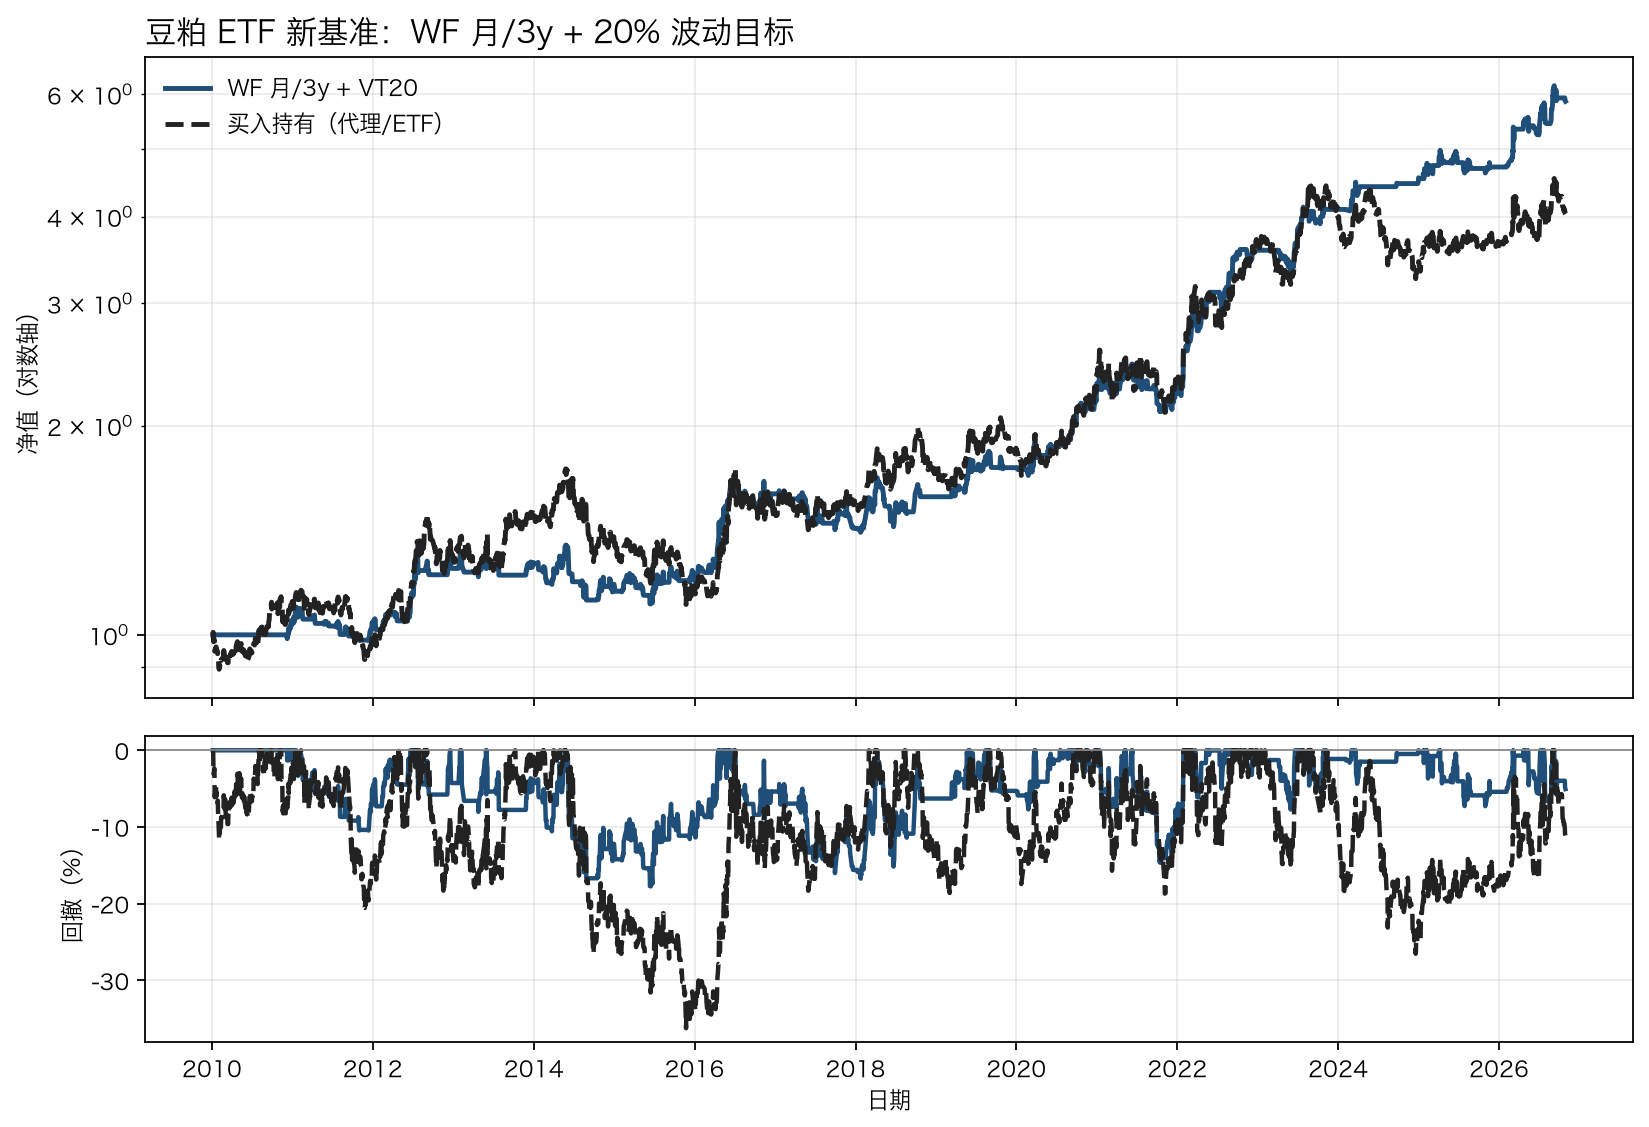
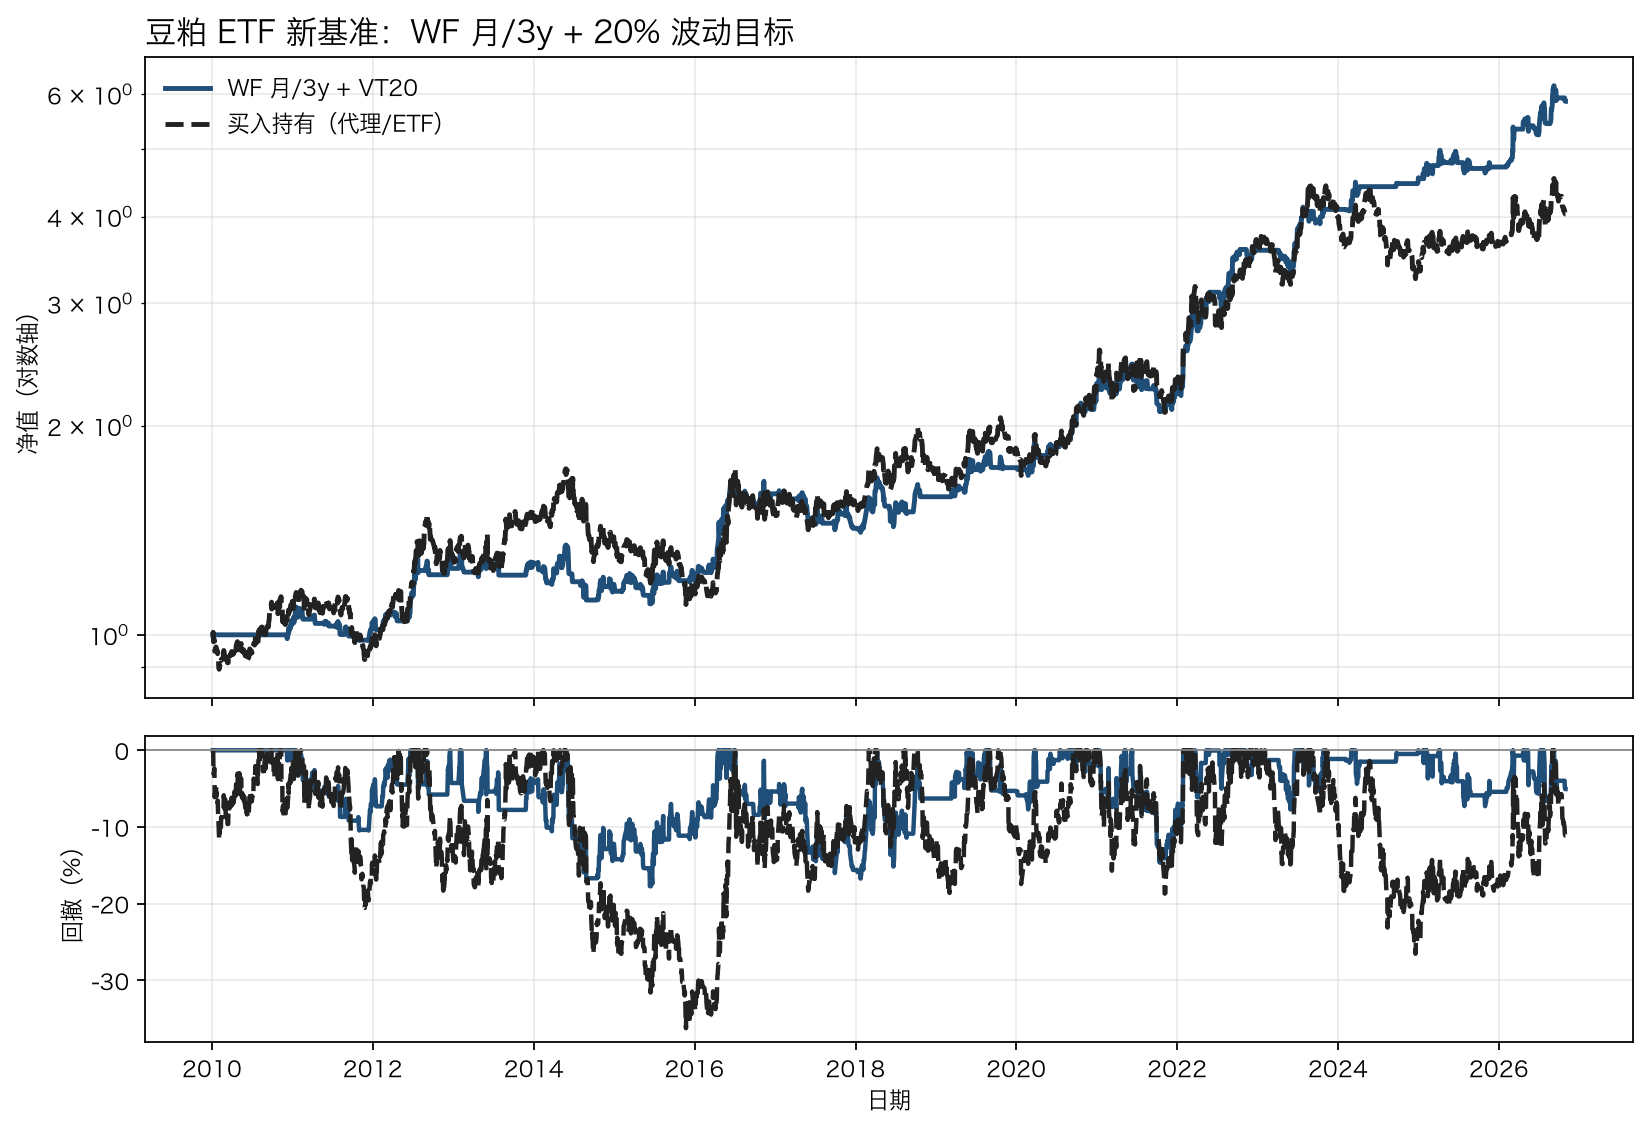
Add final recommendation and selected-param OOS comparison

diff --git a/豆粕/FINAL_RECOMMENDATION.md b/豆粕/FINAL_RECOMMENDATION.md
@@ -1,0 +1,60 @@
+# 最终推荐：WF 月/3y + VT20
+
+## 结论
+
+**研究/纸面首选：`WF 月/3y + 20% 波动目标`。**
+
+规则：每个交易月第一个交易日，只用此前 3 年数据，从 8 套模板中选一套；下一月冻结。ETF 只做多，模板信号 >0 时持有，仓位乘以 `min(1, 20% / 20 日实现波动)`；单边 3bp。代码见 `wf_monthly_vt20.py`。
+
+## 选参 OOS 对比
+
+两者都采用月度、3 年训练窗口。`20% + PV override` 的选参版是在 PV override 上每月选 0/10/20/30% 多头，不是固定 20%。
+
+格式：年化/夏普/卡玛/最大回撤。
+
+| 策略 | 2010 起 | 2016 起 | 2026 起（年化） |
+|---|---:|---:|---:|
+| **WF 月/3y + VT20** | **11.09%/0.918/0.625/−17.7%** | **15.60%/1.189/0.933/−16.7%** | **30.69%/1.679/4.61/−6.7%** |
+| 20% + PV override（选参版） | 11.04%/0.746/0.323/−34.1% | 17.28%/1.129/0.990/−17.5% | 20.51%/1.077/2.48/−8.3% |
+| 20% + PV override（固定 20%，事后参考） | 13.6%/0.88/0.69/−19.8% | 18.7%/1.14/0.94/−19.8% | 32.3%/1.50/3.89/−8.3% |
+
+ETF 实际 2019-12–2026-10：WF + VT20 为 **19.24%/1.444/1.316/−14.6%**。
+
+## 裁决
+
+- 2010 起：WF + VT20 全面胜出；20% + PV override 选参版回撤 −34.1%，不可接受。
+- 2016 起：20% + PV override 年化略高（17.28% 对 15.60%），但夏普和回撤仍是 WF + VT20 更好。
+- 2026 起：WF + VT20 明显更好（30.69% 对 20.51%）。
+- 固定 20% + PV override 的 13.6–32.3% 是事后最优，选参 OOS 只有 11.0–26.0%；不能当实盘预期。
+
+## 预期收益与回撤
+
+不要用 2026 的 30% 外推。
+
+| 情景 | 年化预期 | 回撤预期 | 说明 |
+|---|---:|---:|---|
+| 保守（2010 起） | **10–11%** | **−18%** | 含 2010–2015 弱段，最接近长期 |
+| 基准（2016 起） | **14–16%** | **−17%** | 基本面可得后的完整段 |
+| 近期实际 ETF 2019–2026 | 19.2% | −14.6% | 含 2022 强势，不能直接外推 |
+
+实盘规划建议用 **11–13% 年化、−18% 回撤** 做预算；首年目标不要用 19–30%。
+
+## 执行
+
+- 先纸面/小资金影子 6–12 个月，冻结月度模板选择和 VT20 参数。
+- 仓位按 VT20 计算，不因近期强就手动满仓。
+- 回撤 −15% 降风险预算，−20% 暂停新增；保证金缓冲至少 25%。
+- 2027 开始作为真正前瞻 OOS；当前选参 OOS 的候选集仍是研究后设定的。
+
+## 限制
+
+- 2010/2016 起点使用 ETF 代理（含展期 M0 + 3.27%/年 carry），2019-12 后接 159985。
+- 2025–2026 已反复查看，不是干净 OOS。
+- 20% PV override 选参版的 2010 回撤 −34.1%，说明其高收益依赖 2016 后状态。
+
+## 文件
+
+- `wf_monthly_vt20.py`：新基准代码。
+- `output/wf_monthly_vt20_metrics.json`：全期/起点指标。
+- `output/wf_monthly_vt20_positions.csv`：逐日仓位。
+- `output/wf_monthly_vt20_nav.png`：净值与回撤。

diff --git a/豆粕/README.md b/豆粕/README.md
@@ -27,6 +27,19 @@ python wf_monthly_vt20.py
 
 输出：`output/wf_monthly_vt20_metrics.json`、`output/wf_monthly_vt20_positions.csv`、`output/wf_monthly_vt20_nav.png`。
 
+## 最终推荐与预期（2026-11-01）
+
+**研究与纸面首选：WF 月/3y + 20% 波动目标。** 选参 OOS 对比：
+
+| 策略 | 2010 起 | 2016 起 | 2026 起（年化） |
+|---|---:|---:|---:|
+| **WF 月/3y + VT20** | **11.09%/0.918/−17.7%** | **15.60%/1.189/−16.7%** | **30.69%/1.679/−6.7%** |
+| 20% + PV override（选参版） | 11.04%/0.746/−34.1% | 17.28%/1.129/−17.5% | 20.51%/1.077/−8.3% |
+
+预期预算用 **11–13% 年化、−18% 回撤**；保守情景 10–11%/−18%，2016 起情景 14–16%/−17%。2026 年化 30.7% 和 2019–2026 的 19.2% 都含有利区间，不能直接作为首年目标。
+
+详细选参 OOS、执行与限制见 `FINAL_RECOMMENDATION.md`。
+
 ## 策略公式
 
 ```
